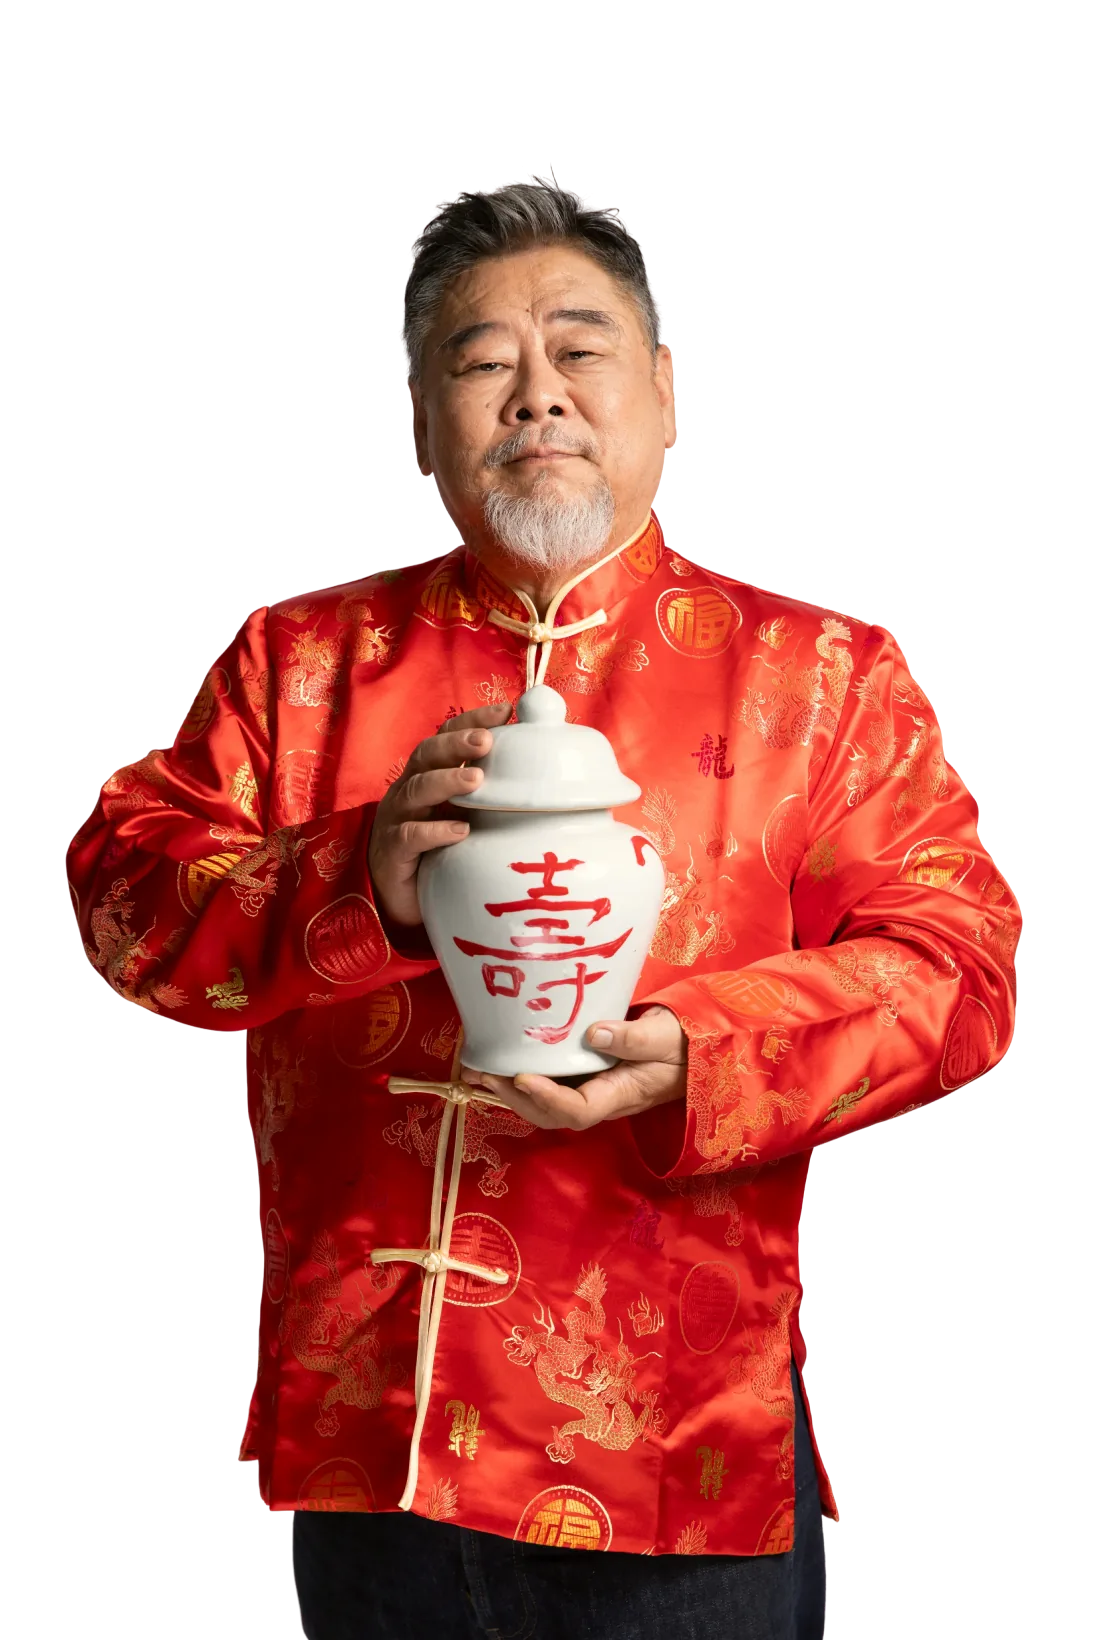
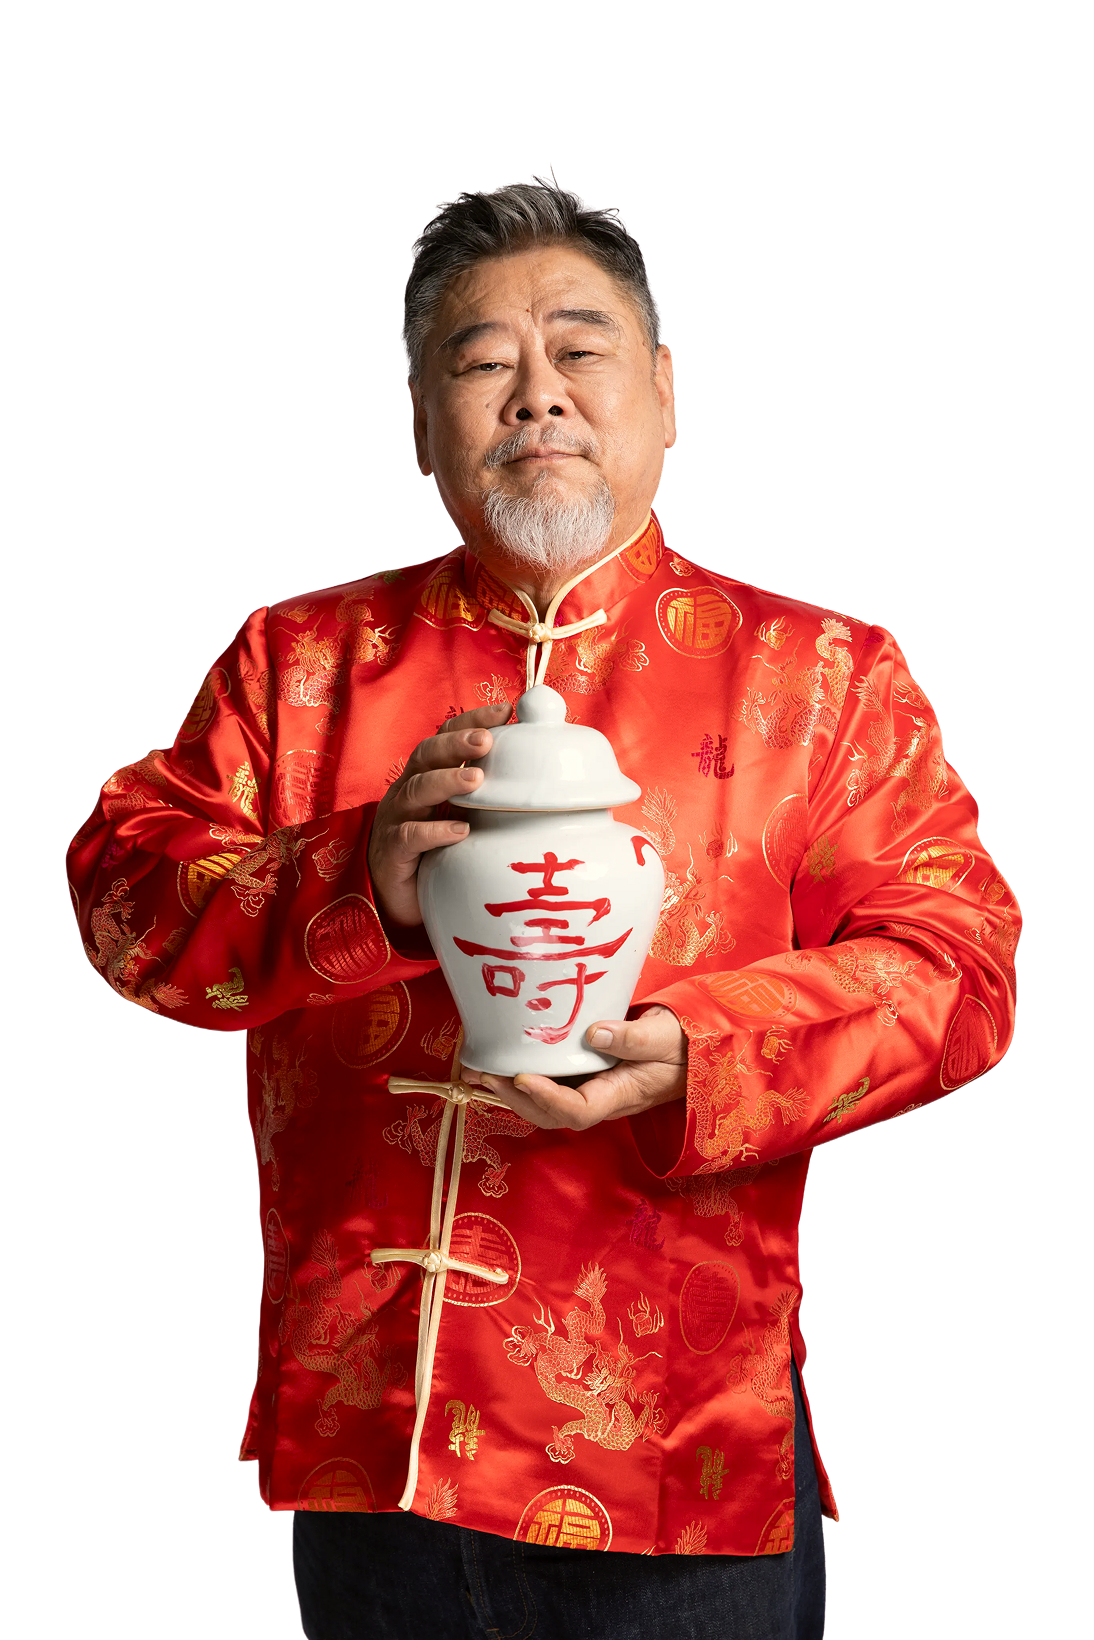
Hero fills the screen, sharp portrait, turning emblem, new backgrounds
- The hero is as tall as the screen (100svh): from lg the design's 746px frame is
  centred in it and the portrait runs down to the foot; below lg the portrait
  stands on the foot as before. Never taller than the portrait can fill.
- Portrait cut out from Ohm's studio photo (1094x1640, 2x the 547px it is shown
  at) with a clean de-matted edge, stored as lossless WebP so only next/image
  compresses it (quality 90).
- The emblem behind him is Ohm's full-resolution logo (1340px square, centred on
  the rings) and turns once every 90s on the compositor; still under
  prefers-reduced-motion.
- Founder section: Ohm's red temple sky (2880 wide) and phone crop via
  SectionBackdrop. Steps + activities: his cream ink landscape (2880x2400) and
  phone crop; on phones the crop keeps its 2x size and dissolves into the colour
  of its water instead of being scaled up.

Claude-Session: https://claude.ai/code/session_01KqfduzWMfZYcr689BsFiDU

diff --git a/app/styles/home.css b/app/styles/home.css
@@ -2,14 +2,19 @@
    are the design's; tokens are in tokens.css. */
 
 /* ---- Hero (Figma 61:1813, 2026-11-13) ----
+   The section is as tall as the screen (Ohm, 2026-11-13): the small viewport height, so
+   a phone's browser chrome never covers its foot, and never shorter than the content.
    From lg the design's 1440 frame scales with the width: --u is one design pixel. The
-   frame is 746 tall; the h1, the portrait and the name sit where the design puts them.
-   Below lg (derived) the h1 is centred at the top and the portrait stands on the foot of
-   a section as tall as the screen. */
+   frame is 746 tall and sits in the middle of the screen; the h1, the portrait and the
+   name sit where the design puts them, and the portrait runs on down to the section's
+   foot, which crops it. Below lg (derived) the h1 is centred at the top and the portrait
+   stands on the foot. */
 .home-hero {
   --u: min(1px, 100vw / 1440);
   display: flex;
-  min-height: clamp(35rem, 100svh, 64rem);
+  min-height: 35rem;
+  height: 100vh;
+  height: 100svh;
 }
 
 .home-hero-stage {
@@ -69,15 +74,34 @@
   height: auto;
 }
 
+/* The emblem turns once every 90 seconds, on the compositor (rotate only, no layout);
+   it stays still for people who prefer reduced motion. */
 .home-hero-emblem {
   position: absolute;
   top: -6%;
   left: 50%;
   width: 125%;
+  transform: translateX(-50%);
+}
+
+.home-hero-emblem-spin {
+  width: 100%;
   max-width: none;
   height: auto;
   opacity: 0.6;
-  transform: translateX(-50%);
+}
+
+@media (prefers-reduced-motion: no-preference) {
+  .home-hero-emblem-spin {
+    animation: home-hero-emblem-turn 90s linear infinite;
+    will-change: rotate;
+  }
+}
+
+@keyframes home-hero-emblem-turn {
+  to {
+    rotate: 1turn;
+  }
 }
 
 .home-hero-name {
@@ -102,24 +126,30 @@
 }
 
 @media (width >= 64rem) {
+  /* Everything in the frame is placed against the section: --x and --y are where the
+     frame's top left corner lies, with the frame (1440 × 746 design pixels) centred in
+     the section's width and height. The section is never taller than the portrait can
+     fill. */
   .home-hero {
+    --x: calc(50% - 720 * var(--u));
+    --y: calc(50% - 373 * var(--u));
     display: block;
-    min-height: 0;
-    height: calc(746 * var(--u));
+    min-height: calc(746 * var(--u));
+    max-height: calc(1190 * var(--u));
   }
 
   .home-hero-stage {
+    position: static;
     display: block;
-    max-width: 1440px;
     height: 100%;
-    margin-inline: auto;
     padding: 0;
     text-align: left;
   }
 
   .home-hero-shade {
     background: radial-gradient(
-      ellipse calc(350 * var(--u)) calc(240 * var(--u)) at calc(280 * var(--u)) calc(310 * var(--u)),
+      ellipse calc(350 * var(--u)) calc(240 * var(--u)) at calc(var(--x) + 280 * var(--u))
+        calc(var(--y) + 310 * var(--u)),
       var(--color-home-hero-shade),
       rgb(82 0 0 / 0.45) 45%,
       transparent 100%
@@ -128,18 +158,20 @@
 
   .home-hero-title {
     position: absolute;
-    top: calc(224 * var(--u));
-    left: calc(103 * var(--u));
+    top: calc(var(--y) + 224 * var(--u));
+    left: calc(var(--x) + 103 * var(--u));
     font-size: calc(64 * var(--u));
     line-height: calc(86 * var(--u));
   }
 
+  /* From its place in the frame down to the section's foot, which crops the portrait. */
   .home-hero-figure {
     position: absolute;
-    top: calc(148 * var(--u));
+    top: calc(var(--y) + 148 * var(--u));
+    bottom: 0;
     left: 50%;
     width: calc(547 * var(--u));
-    height: calc(820 * var(--u));
+    height: auto;
     margin: 0;
     aspect-ratio: auto;
     overflow: visible;
@@ -152,13 +184,25 @@
   }
 
   .home-hero-name {
-    top: calc(615 * var(--u));
+    top: calc(var(--y) + 615 * var(--u));
     right: auto;
     bottom: auto;
-    left: calc(912 * var(--u));
+    left: calc(var(--x) + 912 * var(--u));
     font-size: calc(40 * var(--u));
     line-height: calc(40 * var(--u));
     filter: none;
+  }
+}
+
+/* ---- Ink wash (Figma 67:1630 / 67:1631) ----
+   Under 40rem the phone crop sits at the top at its own size and fades out over its
+   last tenth into the colour of its water, which fills the rest. */
+@media (width < 40rem) {
+  .ink-wash picture img {
+    bottom: auto;
+    height: auto;
+    object-fit: fill;
+    mask-image: linear-gradient(#000 88%, transparent);
   }
 }
 

diff --git a/components/sections/HomeHero.tsx b/components/sections/HomeHero.tsx
@@ -3,17 +3,18 @@ import { homeHero } from "@/content/home";
 import { SectionBackdrop } from "@/components/ui/SectionBackdrop";
 import heroBackground from "@/public/images/home/v4/hero-bg.jpg";
 import heroBackgroundMobile from "@/public/images/home/v4/hero-bg-mobile.jpg";
-import emblem from "@/public/images/emblem.png";
+import emblem from "@/public/images/home/v4/hero-emblem.png";
 
-// Figma wide-banner-section (61:1813, 2026-11-13): 746px tall at 1440 over the red temple
-// and dragon. The background is Ohm's full-resolution export (2880 wide, with the
+// Figma wide-banner-section (61:1813, 2026-11-13): the design's 746px frame at 1440, filling
+// the screen's height (Ohm, 2026-11-13) over the red temple and dragon. The background is Ohm's full-resolution export (2880 wide, with the
 // design's red veil and warm glow already in it) and his phone crop (780 wide); a dark
 // shade sits behind the headline. In the middle, อ.ดำรงชัย cut out in front of the club's
-// emblem (screened at 60%), cropped by the section's foot; the gold h1 at the top left
-// and his name in gold beside him at the lower right. From lg the design's 1440 frame
-// scales with the width (app/styles/home.css); below lg (derived) the h1 sits centred at
-// the top, the portrait fills the rest of the screen and his name sits over its lower
-// right.
+// emblem (Ohm's full-resolution logo, screened at 60% and turning slowly), cropped by the
+// section's foot; the gold h1 at the top left and his name in gold beside him at the
+// lower right. From lg the design's 1440 frame scales with the width and sits in the
+// middle of the screen's height (app/styles/home.css); below lg (derived) the h1 sits
+// centred at the top, the portrait fills the rest of the screen and his name sits over
+// its lower right.
 export function HomeHero() {
   return (
     <section
@@ -36,12 +37,15 @@ export function HomeHero() {
           ))}
         </h1>
         <div className="home-hero-figure">
-          <Image
-            src={emblem}
-            alt=""
-            sizes="(min-width: 1440px) 767px, (min-width: 1024px) 53vw, 110vw"
-            className="home-hero-emblem pointer-events-none mix-blend-screen"
-          />
+          <div aria-hidden="true" className="home-hero-emblem">
+            <Image
+              src={emblem}
+              alt=""
+              quality={90}
+              sizes="(min-width: 1440px) 767px, (min-width: 1024px) 53vw, 110vw"
+              className="home-hero-emblem-spin pointer-events-none mix-blend-screen"
+            />
+          </div>
           <Image
             src={homeHero.photo.src}
             alt={homeHero.photo.alt}

diff --git a/components/sections/Founder.tsx b/components/sections/Founder.tsx
@@ -3,11 +3,14 @@ import { founderProfile } from "@/content/home";
 import { CheckIcon } from "@/components/ui/CheckIcon";
 import { LineButton } from "@/components/ui/LineButton";
 import { Phrases } from "@/components/ui/Phrases";
-import founderBackground from "@/public/images/home/v4/founder-bg.webp";
+import { SectionBackdrop } from "@/components/ui/SectionBackdrop";
+import founderBackground from "@/public/images/home/v4/founder-bg.jpg";
+import founderBackgroundMobile from "@/public/images/home/v4/founder-bg-mobile.jpg";
 
 // Figma founder section (61:1886, 2026-11-13): 720px tall at 1440. A red temple sky
-// that sinks into golden mist and mountains, darkened at the top where it meets the
-// temple hall above and fading to cream at the foot, where the ink-wash sections start.
+// that sinks into golden mist and mountains (Ohm's full-resolution export, 2880 wide,
+// and his phone crop), darkened at the top where it meets the temple hall above and
+// fading to cream at the foot, where the ink-wash sections start.
 // อ.ดำรงชัย, cut out, stands on the left, cropped by the section's foot; on the right,
 // 120px in and centred, the smoked-red glass card (622 wide, red hairline) with his name,
 // the club's story, six areas of expertise in two columns and the LINE button. From lg
@@ -21,14 +24,7 @@ export function Founder() {
       aria-labelledby="founder-title"
       className="founder relative isolate scroll-mt-6 overflow-hidden bg-brand-red-dark"
     >
-      <Image
-        src={founderBackground}
-        alt=""
-        fill
-        sizes="100vw"
-        quality={75}
-        className="-z-10 object-cover object-[100%_16%]"
-      />
+      <SectionBackdrop desktop={founderBackground} mobile={founderBackgroundMobile} />
       <div aria-hidden="true" className="founder-fade-top" />
       <div aria-hidden="true" className="founder-fade-foot" />
       <div className="founder-stage">

diff --git a/components/sections/InkWash.tsx b/components/sections/InkWash.tsx
@@ -1,14 +1,19 @@
-import Image from "next/image";
 import type { ReactNode } from "react";
+import { SectionBackdrop } from "@/components/ui/SectionBackdrop";
 import inkWash from "@/public/images/home/v4/process-bg.jpg";
+import inkWashMobile from "@/public/images/home/v4/process-bg-mobile.jpg";
 
 // Figma 67:1630 / 67:1631 (2026-11-13): one ink-wash landscape of earth, water and wind,
 // gold-hazed at the top, behind both the consultation steps and the activities strip
-// (the design lays the same 1440×1200 image across the two sections).
+// (the design lays the same 1440×1200 image across the two sections). Ohm's
+// full-resolution export (2880 wide) and his phone crop, anchored to the top so the
+// gold haze stays under the steps' heading. The two sections stack far taller than a
+// phone screen, so there the crop keeps its own size (2x a 390 screen, never scaled up)
+// and dissolves into the still water of its foot (app/styles/home.css).
 export function InkWash({ children }: { children: ReactNode }) {
   return (
-    <div className="relative isolate bg-warm">
-      <Image src={inkWash} alt="" fill sizes="100vw" quality={90} className="-z-10 object-cover object-top" />
+    <div className="ink-wash relative isolate bg-ink-wash">
+      <SectionBackdrop desktop={inkWash} mobile={inkWashMobile} className="object-top" />
       {children}
     </div>
   );

diff --git a/app/styles/tokens.css b/app/styles/tokens.css
@@ -94,6 +94,7 @@
   --color-veil: rgb(241 236 233 / 0.5); /* cream veil over the footer's ink wash */
   --color-fade-red: rgb(77 10 8 / 0.95); /* founder section, top fade from the services */
   --color-fade-cream: rgb(245 232 214 / 0.95); /* founder section, foot fade to the ink wash */
+  --color-ink-wash: #f1eae4; /* the ink wash's still water, under its phone crop */
 
   --font-thai: var(--font-noto-thai), ui-sans-serif, system-ui, sans-serif;
   /* The Chinese eyebrows (風水, 生肖). The design names Inter Light, which has no Chinese
